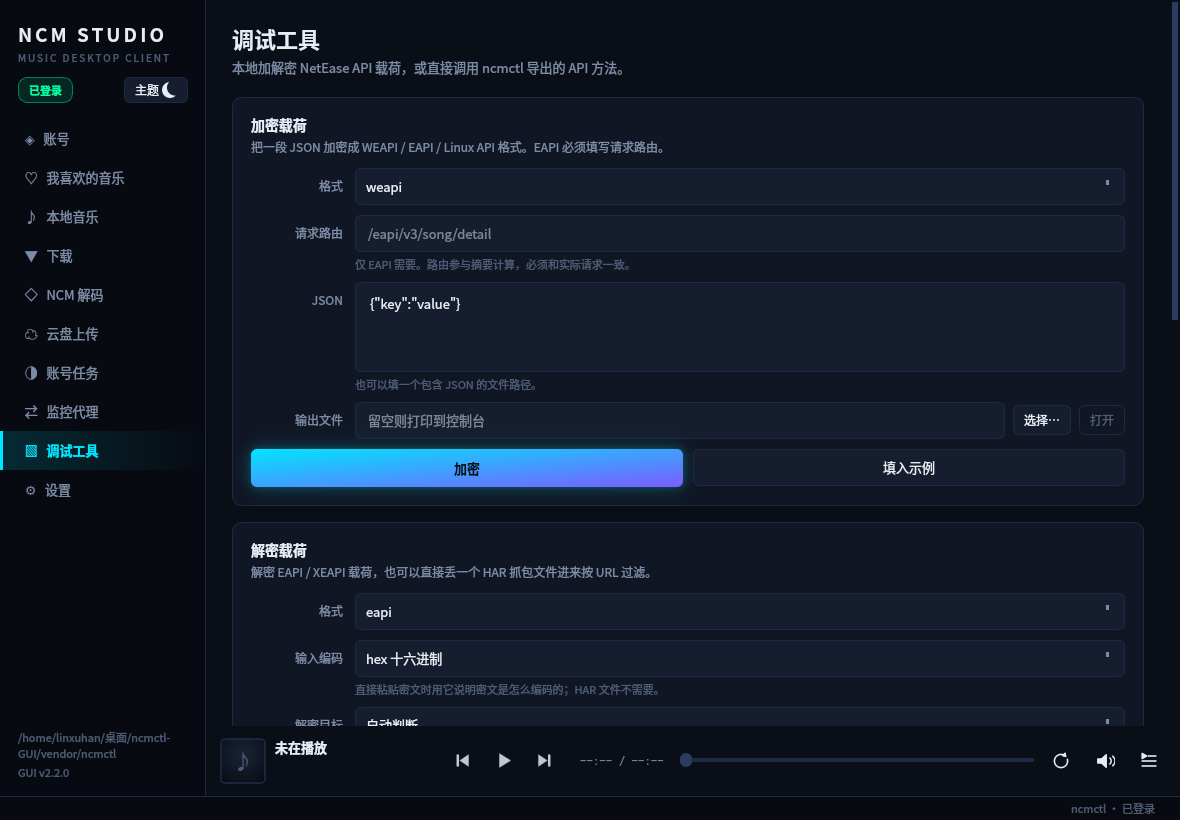
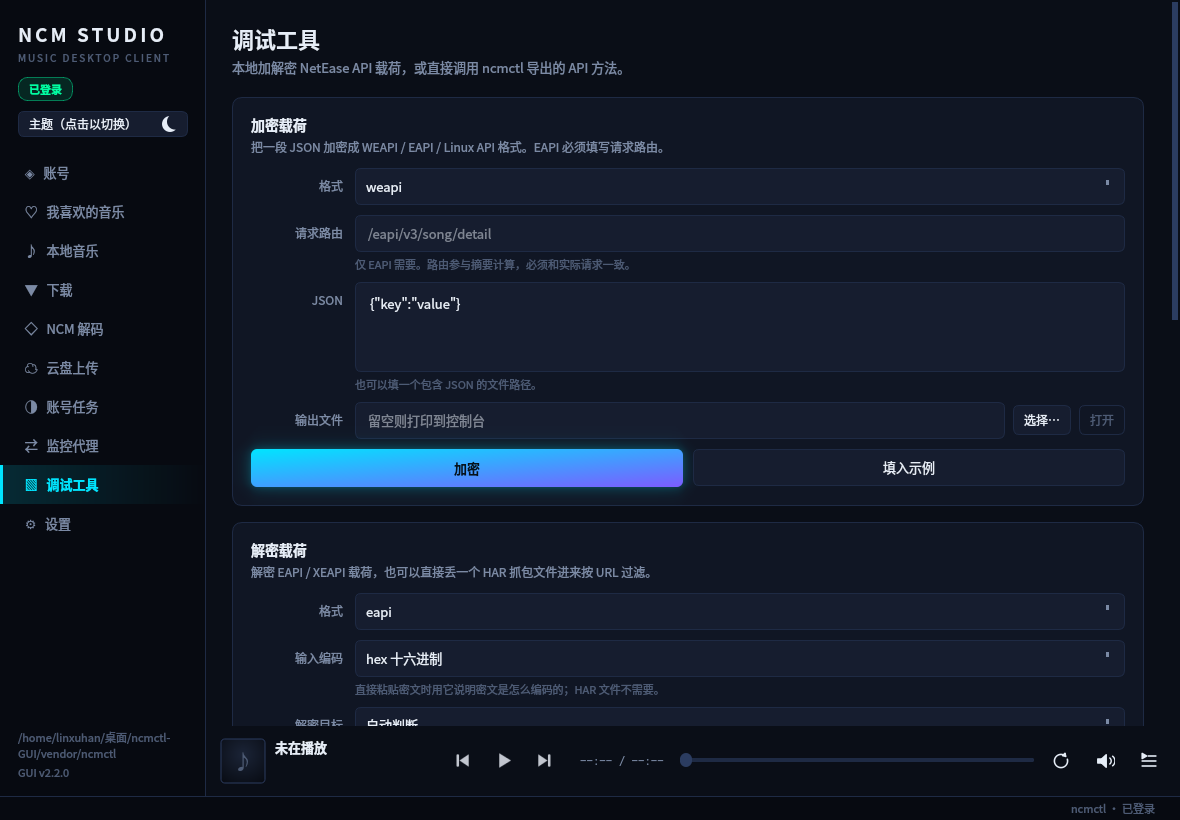
主题键文案补上「（点击以切换）」，并单独占一行
侧边栏宽度放不下「已登录」和完整提示，主题键改到登录状态下一行。

diff --git a/ncmgui/window.py b/ncmgui/window.py
@@ -176,8 +176,14 @@ class MainWindow(QMainWindow):
         chip_row.setSpacing(8)
         chip_row.addWidget(self.login_chip)
         chip_row.addStretch(1)
-        chip_row.addWidget(self.theme_toggle)
         brand_layout.addLayout(chip_row)
+
+        # 「主题（点击以切换）」比登录状态宽得多，挤在同一行会溢出侧边栏，
+        # 所以单独占一行
+        theme_row = QHBoxLayout()
+        theme_row.setContentsMargins(0, 8, 0, 0)
+        theme_row.addWidget(self.theme_toggle, 1)
+        brand_layout.addLayout(theme_row)
 
         layout.addWidget(brand)
 

diff --git a/ncmgui/widgets/themetoggle.py b/ncmgui/widgets/themetoggle.py
@@ -116,7 +116,7 @@ class ThemeToggle(QPushButton):
     """
 
     def __init__(self, parent: QWidget | None = None) -> None:
-        super().__init__("主题", parent)
+        super().__init__("主题（点击以切换）", parent)
         self.setObjectName("Ghost")
         self.setProperty("compact", "true")
         self.setProperty("themeToggle", "true")

diff --git a/ncmgui/theme.py b/ncmgui/theme.py
@@ -457,6 +457,7 @@ QPushButton#Ghost[compact="true"] {
 QPushButton#Ghost[themeToggle="true"] {
     padding: 0 28px 0 10px;
     font-size: 12px;
+    text-align: left;
 }
 
 /* 播放条上的控制键：平时只有图标，悬停才浮出一层淡底色。
